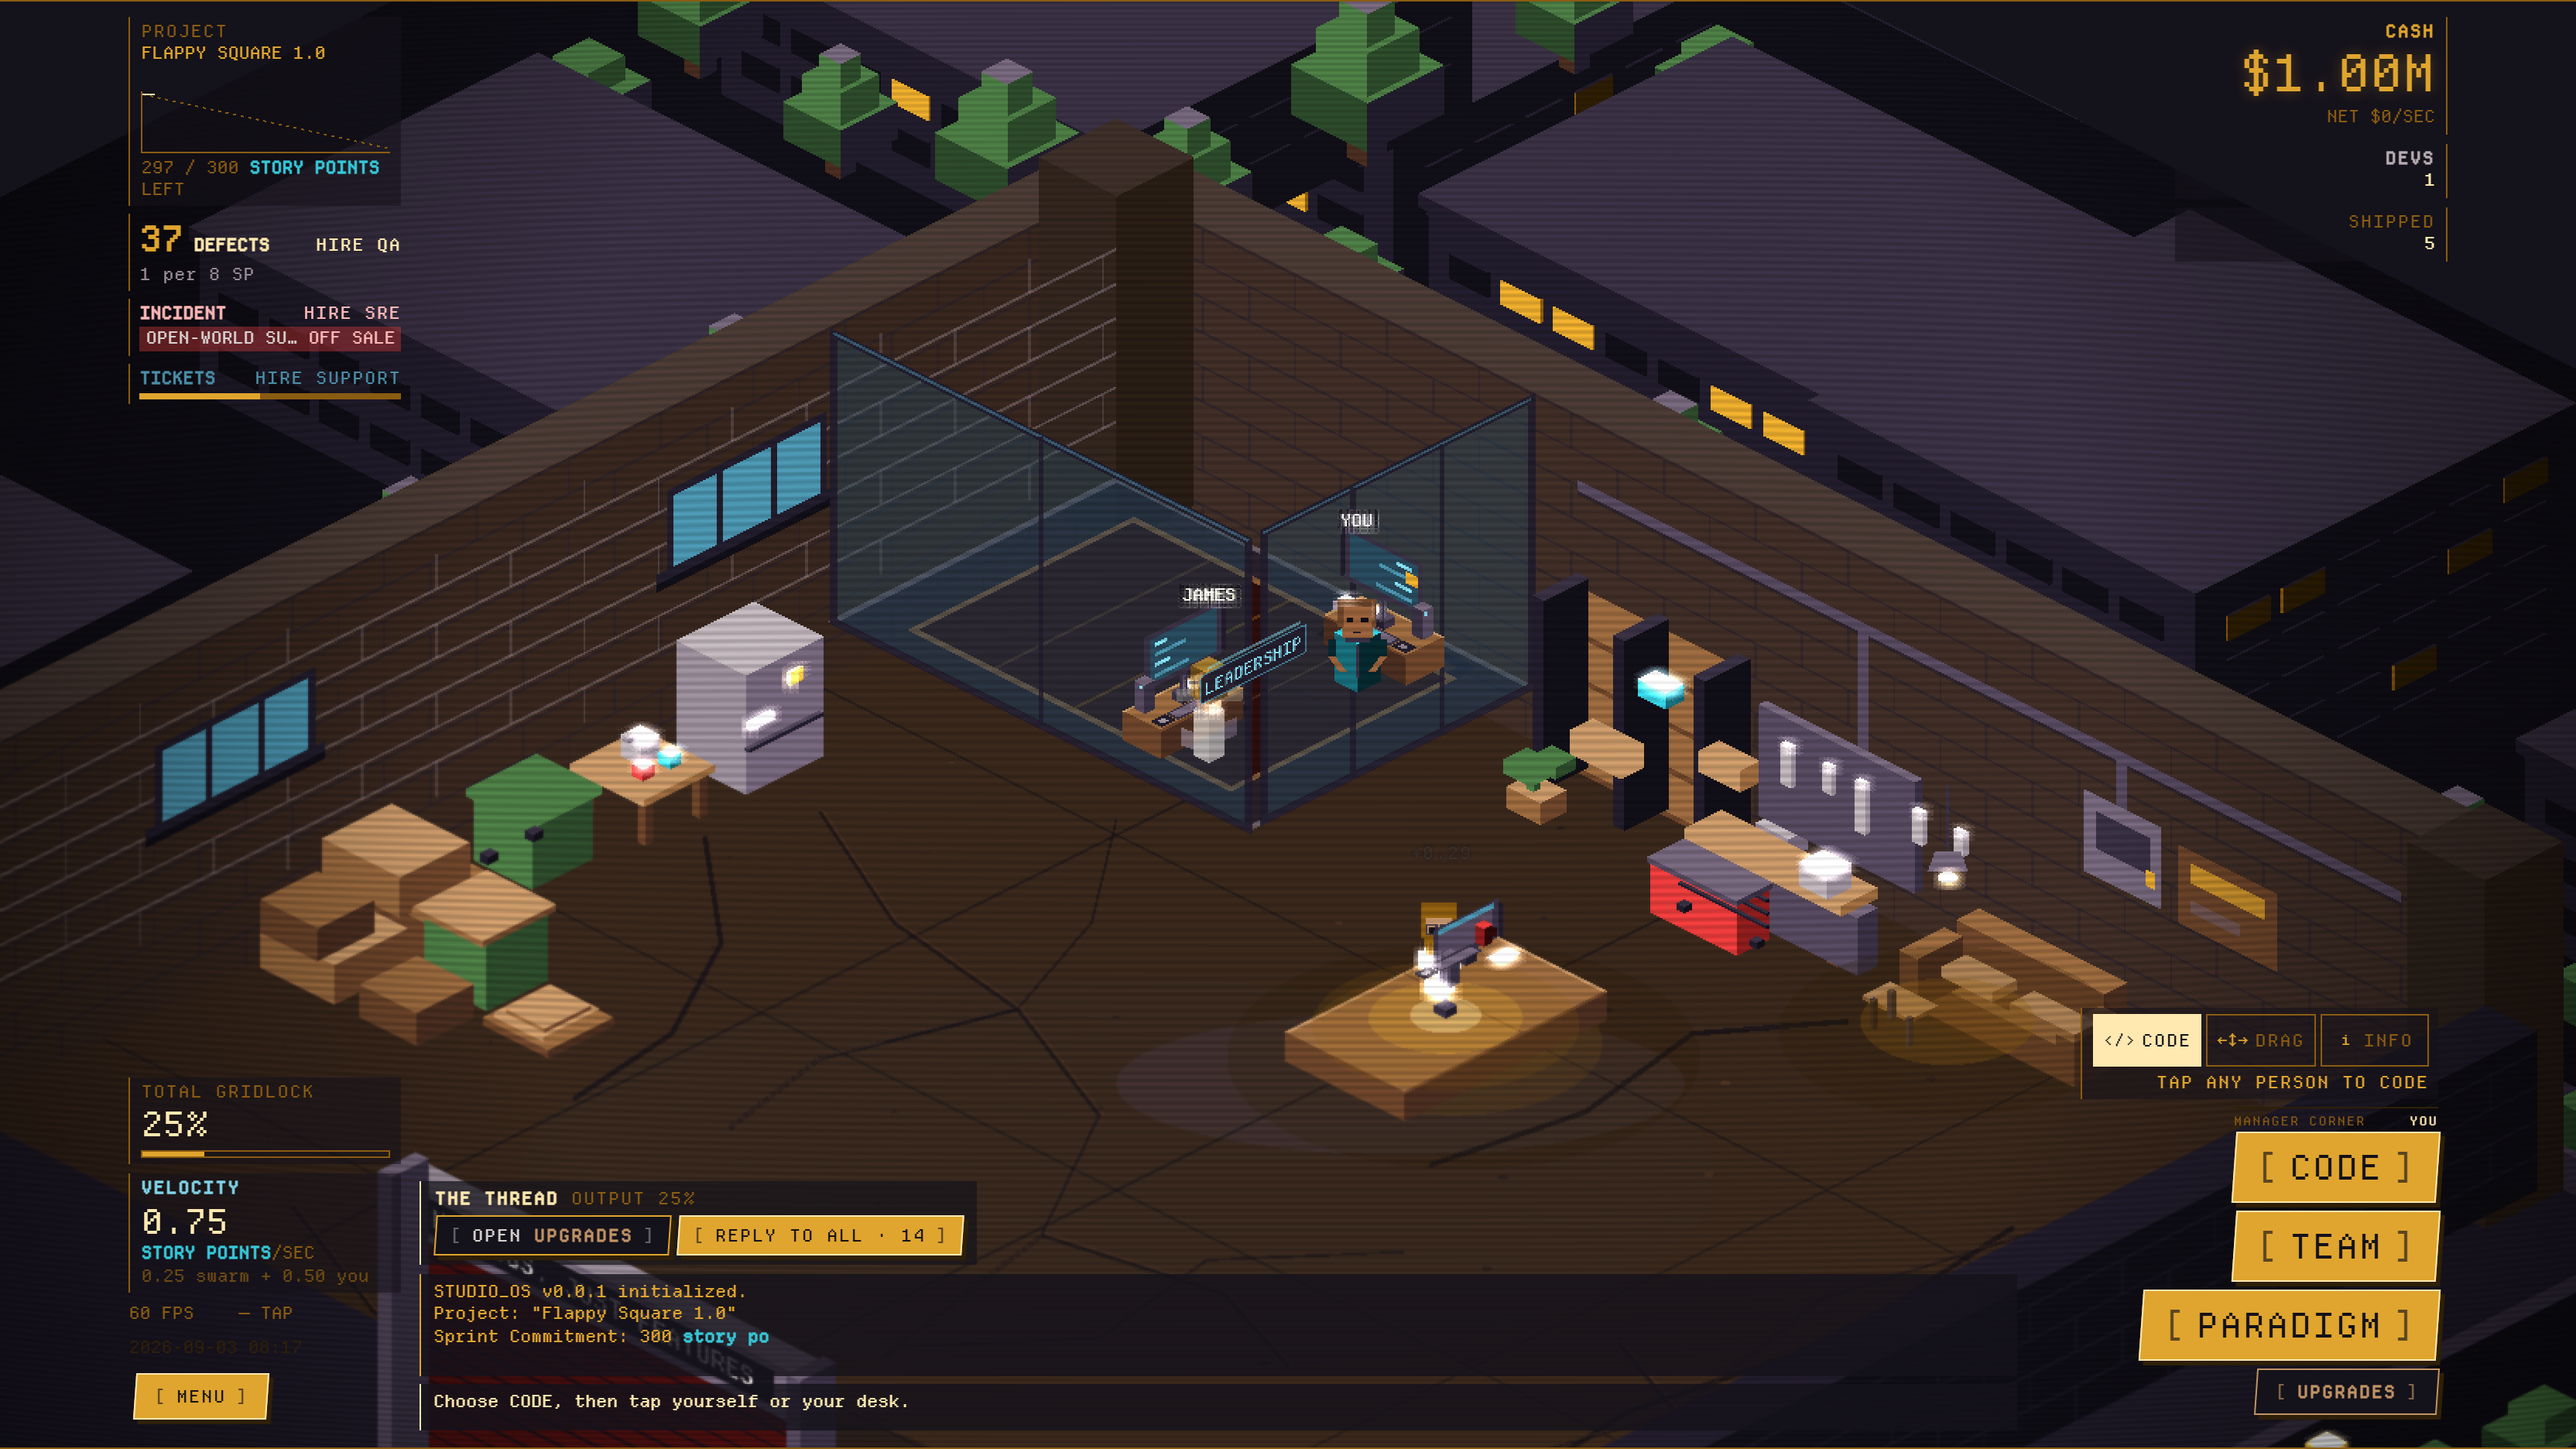
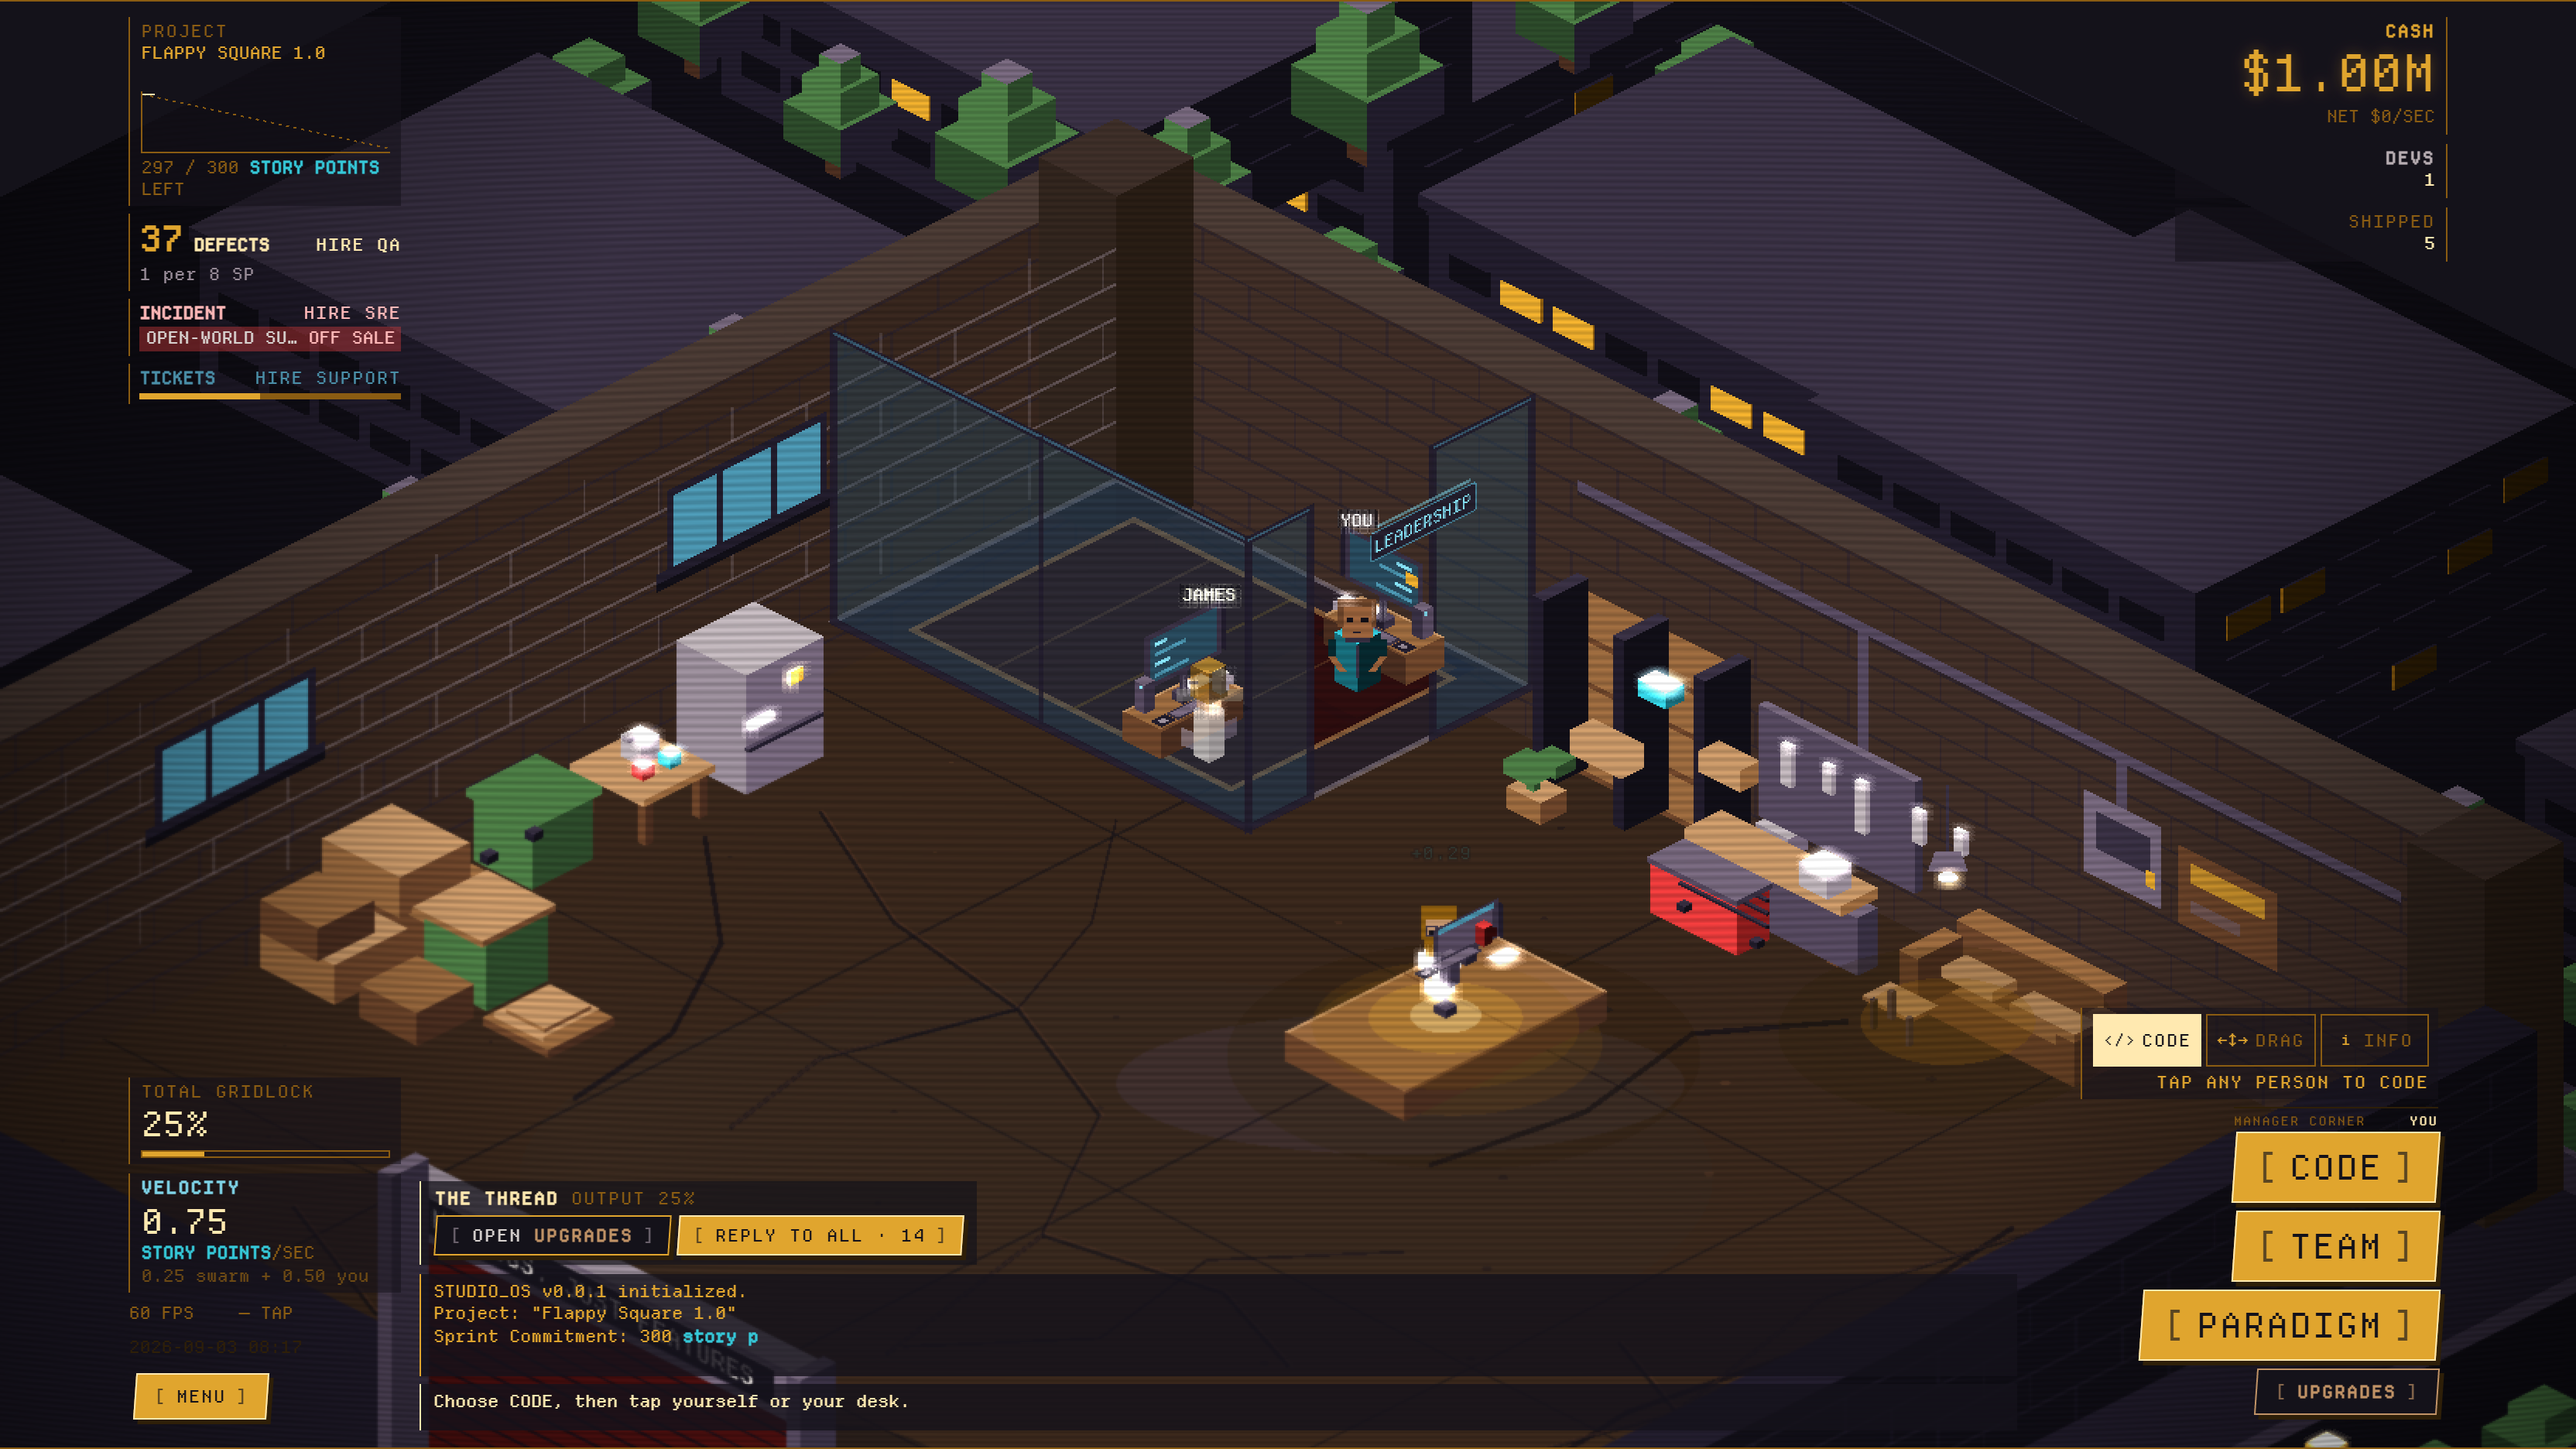
fix: the leadership doorway is a position in the room, not a plot on the floor
Reported as "james is at 2 different places?", and that is exactly what it
looked like.

§7.8.12 anchored the suite's doorway at floor plot 0 absolutely, which is
inside a seven-plot room and outside a two-plot one. With §7.8.0c's garage
cast down to the founder and James, `suiteEastCol(['james'])` puts the east
wall at column -0.56 — so plot 0 fell outside the room and the drawing
degraded silently: the first glass run drew, the second was skipped because
`east > SUITE_DOOR_COLS / 2` reads false, and what was left was a
quarter-column sliver in the corner. The sign, anchored at the same plot,
hung past the east wall and came down across James and hid his head. Both
of the walls that did draw were correct, nothing threw, and no test moved.

`suiteDoorCol(east)` clamps the opening inside the room, keeping a full
door's width off both ends. The office is unchanged, because 0 is already
inside its clamp. The sign, both glass runs and the Instant Messenger exit
all read it, so there is one answer to where the room lets out rather than
four. The sign also goes from 0.74 of the wall height to 0.94: at two plots
the front glass is 3.44 columns wide, so wherever the opening goes there is
a desk behind it, and a sign over a door hangs from the head of the
opening.

The general form, now produced three times in this file: an absolute
coordinate inside a container whose size is a function of content will be
correct until the content shrinks.
[…]

Changed region(s): [[0.4688, 0.3098, 0.5938, 0.5577]]

diff --git a/src/render/room.ts b/src/render/room.ts
@@ -1740,6 +1740,35 @@ export const SUITE_WALL_ROW = FLOOR_MIN_ROW
 export const SUITE_DOOR_COLS = 1.5
 
 /**
+ * §7.8.12 [added 2026-09-03] — **where the doorway is, for a room this wide.**
+ *
+ * It was floor plot **0**, absolutely, and that was fine while the suite was
+ * never narrower than four plots: 0 sat comfortably inside a seven-plot room
+ * and the glass came out as two runs with an opening between them.
+ *
+ * §7.8.0c's garage cast is two. `suiteEastCol(['james'])` puts the east wall at
+ * col −0.56, so plot 0 is **outside the room** — and the drawing degraded in
+ * the quietest possible way. The first pane still ran from the west wall to
+ * −0.75; the second was skipped, because `east > SUITE_DOOR_COLS / 2` is false;
+ * and what was left was a 0.19-column sliver in the corner where a doorway
+ * should be. The sign, anchored at the same plot 0, hung *past* the east wall
+ * and landed across James — so the room read as a hero with his name over one
+ * desk and his body behind a sign somewhere else. Nothing threw, no test moved,
+ * and both of the walls that were drawn were correct.
+ *
+ * So the doorway is a position **inside the room**, not a plot on the floor:
+ * plot 0 where it fits, and pulled in to keep a full door's width off both ends
+ * where it does not. The office is unchanged — 0 is already inside its clamp —
+ * which is the property that makes this a fix rather than a redesign.
+ */
+export function suiteDoorCol(eastCol: number): number {
+  const lo = SUITE_WEST_COL + SUITE_DOOR_COLS
+  const hi = eastCol - SUITE_DOOR_COLS
+  if (!(hi > lo)) return (SUITE_WEST_COL + eastCol) / 2
+  return Math.max(lo, Math.min(hi, 0))
+}
+
+/**
  * What the sign over the door says.
  *
  * Not `CXO`, not `EXECUTIVE SUITE`, and not `HEROES`. §13.11.2 already ruled out
@@ -4370,13 +4399,12 @@ export function buildRoom(): RoomHandle {
       // than as the room having been cut off.
       // Full height, floor to soffit — see {@link drawnWallH}.
       pane(east, SUITE_WALL_ROW, east, SUITE_GLASS_ROW, drawnWallH)
-      // The front, in two runs with the doorway between them. The door is on
-      // the floor's grid too: it opens onto plot (0, 0) — the head of row 0,
-      // which `suiteSeats` holds empty precisely so that it can.
-      pane(SUITE_WEST_COL, SUITE_GLASS_ROW, -SUITE_DOOR_COLS / 2, SUITE_GLASS_ROW, drawnWallH)
-      if (east > SUITE_DOOR_COLS / 2) {
-        pane(SUITE_DOOR_COLS / 2, SUITE_GLASS_ROW, east, SUITE_GLASS_ROW, drawnWallH)
-      }
+      // The doorway is on the floor's grid, like everything else in this room.
+      // The front, in two runs with the doorway between them — at whichever
+      // column {@link suiteDoorCol} puts it in for a room this wide.
+      const doorCol = suiteDoorCol(east)
+      pane(SUITE_WEST_COL, SUITE_GLASS_ROW, doorCol - SUITE_DOOR_COLS / 2, SUITE_GLASS_ROW, drawnWallH)
+      pane(doorCol + SUITE_DOOR_COLS / 2, SUITE_GLASS_ROW, east, SUITE_GLASS_ROW, drawnWallH)
 
       /*
        * §7.8.12 — **the sign over the door**, and it is words now.
@@ -4417,8 +4445,19 @@ export function buildRoom(): RoomHandle {
        * monitor. A sign over a door hangs from the head of the opening, which
        * is a number this room already has.
        */
-      const door = isoAt(0, SUITE_GLASS_ROW + SUITE_SIGN_OUT)
-      signGroup = group(door.x, door.y - Math.max(62, drawnWallH * 0.74))
+      const door = isoAt(doorCol, SUITE_GLASS_ROW + SUITE_SIGN_OUT)
+      /*
+       * §7.8.12 [amended 2026-09-03] — **it hangs at the head of the glass, not
+       * three quarters of the way up it.**
+       *
+       * 0.74 cleared every head while the suite was seven plots wide, because
+       * the doorway at plot 0 had nobody standing behind it. §7.8.0c's garage
+       * room is two plots and 3.44 columns of front glass, so wherever the
+       * opening goes there is a desk behind it — and at 0.74 the board came
+       * down across the founder's head. A sign over a door hangs from the head
+       * of the *opening*, and this room's opening is full height.
+       */
+      signGroup = group(door.x, door.y - Math.max(62, drawnWallH * 0.94))
       signGroup.skew.y = Math.atan(-0.5)
       signGroup.addChild(
         new Graphics()
@@ -4673,8 +4712,8 @@ export function buildRoom(): RoomHandle {
     // because that is where the room lets out. They used to converge on a fixed
     // point below the old plate, which put every remote assignment through the
     // middle of a pane of glass.
-    const exit = isoAt(0, SUITE_GLASS_ROW)
     const cast = roomCast(team, drawnGarage)
+    const exit = isoAt(suiteDoorCol(suiteEastCol(cast.map((hero) => hero.id))), SUITE_GLASS_ROW)
     for (let order = 0; order < cast.length; order++) {
       const hero = cast[order]
       if (!hero.assigned) continue

diff --git a/GDD.html b/GDD.html
@@ -4067,6 +4067,31 @@ fixture may carry later progression state for other tests, but the garage render
 five heroes out rather than turning the first room into a preview of the whole cast. Its strongest
 capture therefore proves two independent counts: twenty ordinary developers across five pods, and
 exactly two non-capacity occupants behind the glass.</p>
+<h6 id="the-doorway-is-inside-the-room">The doorway is a position in the room, not a plot on the floor <strong>[CANON - added 2026-09-03]</strong></h6>
+<p>§7.8.12 put the suite's doorway at floor plot <strong>0</strong>, absolutely, and that was correct
+for as long as the suite was never narrower than about four plots. §7.8.0c's garage cast is two:
+<code>suiteEastCol(['james'])</code> puts the east wall at column −0.56, so plot 0 is
+<strong>outside the room</strong>.</p>
+<p>The drawing then degraded in the quietest way available. The first glass run still drew, from the
+west wall to −0.75. The second was skipped, because <code>east &gt; SUITE_DOOR_COLS / 2</code> reads
+false. What was left was a quarter-column sliver in the corner where an opening should be — and the
+sign, anchored at the same plot 0, hung <em>past</em> the east wall and came down across James, whose
+head it hid. So the room read as a hero with his name over one desk and a headless body behind a sign
+somewhere else. <strong>Nothing threw, no test moved, and both of the walls that were drawn were
+correct.</strong> It was caught by a person looking at a screenshot and asking why James was in two
+places, which is the failure mode §7.8.0c's whole gate stack exists to make rarer and evidently has
+not eliminated.</p>
+<p>So the doorway is <code>suiteDoorCol(east)</code>: plot 0 where it fits, pulled in to keep a full
+door's width off both ends where it does not. The office is unchanged, because 0 is already inside its
+clamp — which is the property that makes this a fix and not a redesign. The sign, the two glass runs
+and §7.8.12's Instant Messenger exit all read it, so there is one answer to "where does this room let
+out" rather than four. The sign also moved from 0.74 of the wall height to 0.94: at two plots the
+front glass is 3.44 columns wide, so wherever the opening goes there is a desk behind it, and a sign
+over a door hangs from the head of the opening.</p>
+<p>The general form is worth keeping, because this file has now produced it three times: <strong>an
+absolute coordinate inside a container whose size is a function of content will be correct until the
+content shrinks.</strong> The suite's east wall moves with the roster; the doorway had to move with
+it and did not.</p>
 <h6 id="what-devs-20-cost">What <code>DEVS 20</code> cost, and what it bought <strong>[CANON - added 2026-09-03]</strong></h6>
 <p>The counter read twenty-one, and it was not a rounding error. §7.8.12 held studio seat 0 for James
 so that no body would be drawn standing in the suite's doorway — the right answer to the question it

diff --git a/src/render/room.test.ts b/src/render/room.test.ts
@@ -52,6 +52,7 @@ import {
   suiteSeatsIn,
   garagePlot,
   roomCast,
+  suiteDoorCol,
   isoAt,
   FLOOR_MIN_COL,
   FLOOR_MIN_ROW,
@@ -1500,6 +1501,50 @@ describe('the garage holds the founder and James, and twenty developers', () => 
     expect(room.geometry().screen.piers).toHaveLength(4)
     room.setHeadcount(21)
     expect(room.geometry().screen.piers).toHaveLength(0)
+    room.container.destroy({ children: true })
+  })
+})
+
+
+/**
+ * §7.8.12 [added 2026-09-03] — **the doorway is inside the room.**
+ *
+ * It was floor plot 0 absolutely, which is inside a seven-plot suite and
+ * outside a two-plot one. The failure was silent in the worst way: the first
+ * glass run still drew, the second was skipped by a bounds test that read
+ * false, and what was left was a quarter-column sliver where a doorway should
+ * be — with the sign, anchored at the same plot, hanging past the east wall and
+ * across the hero standing behind it. Two correct walls and no opening.
+ */
+describe('the suite doorway', () => {
+  it('stays at plot 0 for a room wide enough to hold it', () => {
+    const wide = suiteEastCol(STORY_HEROES.map((h) => h.id))
+    expect(suiteDoorCol(wide)).toBe(0)
+  })
+
+  it('pulls inside a room too narrow for plot 0', () => {
+    const narrow = suiteEastCol(['james'])
+    const col = suiteDoorCol(narrow)
+    expect(col).toBeLessThan(0)
+    // A full door's width clear of both ends, which is the whole requirement:
+    // an opening flush with a corner is not an opening.
+    expect(col - SUITE_DOOR_COLS / 2).toBeGreaterThan(SUITE_WEST_COL)
+    expect(col + SUITE_DOOR_COLS / 2).toBeLessThan(narrow)
+  })
+
+  it('draws glass either side of it in both rooms', () => {
+    const room = buildRoom()
+    // The garage: two people, and the narrow room the absolute plot broke.
+    room.setTeam([{ id: 'james', colour: '#fff', assigned: false, connecting: false, selected: false }])
+    room.setHeadcount(20)
+    // One end pane plus two front runs. Two would mean the opening ate a wall.
+    expect(room.geometry().suiteWalls).toHaveLength(3)
+    // And the office, where nothing about this changed.
+    room.setHeadcount(400)
+    room.setTeam(STORY_HEROES.map((h) => ({
+      id: h.id, colour: '#fff', assigned: false, connecting: false, selected: false,
+    })))
+    expect(room.geometry().suiteWalls).toHaveLength(3)
     room.container.destroy({ children: true })
   })
 })
